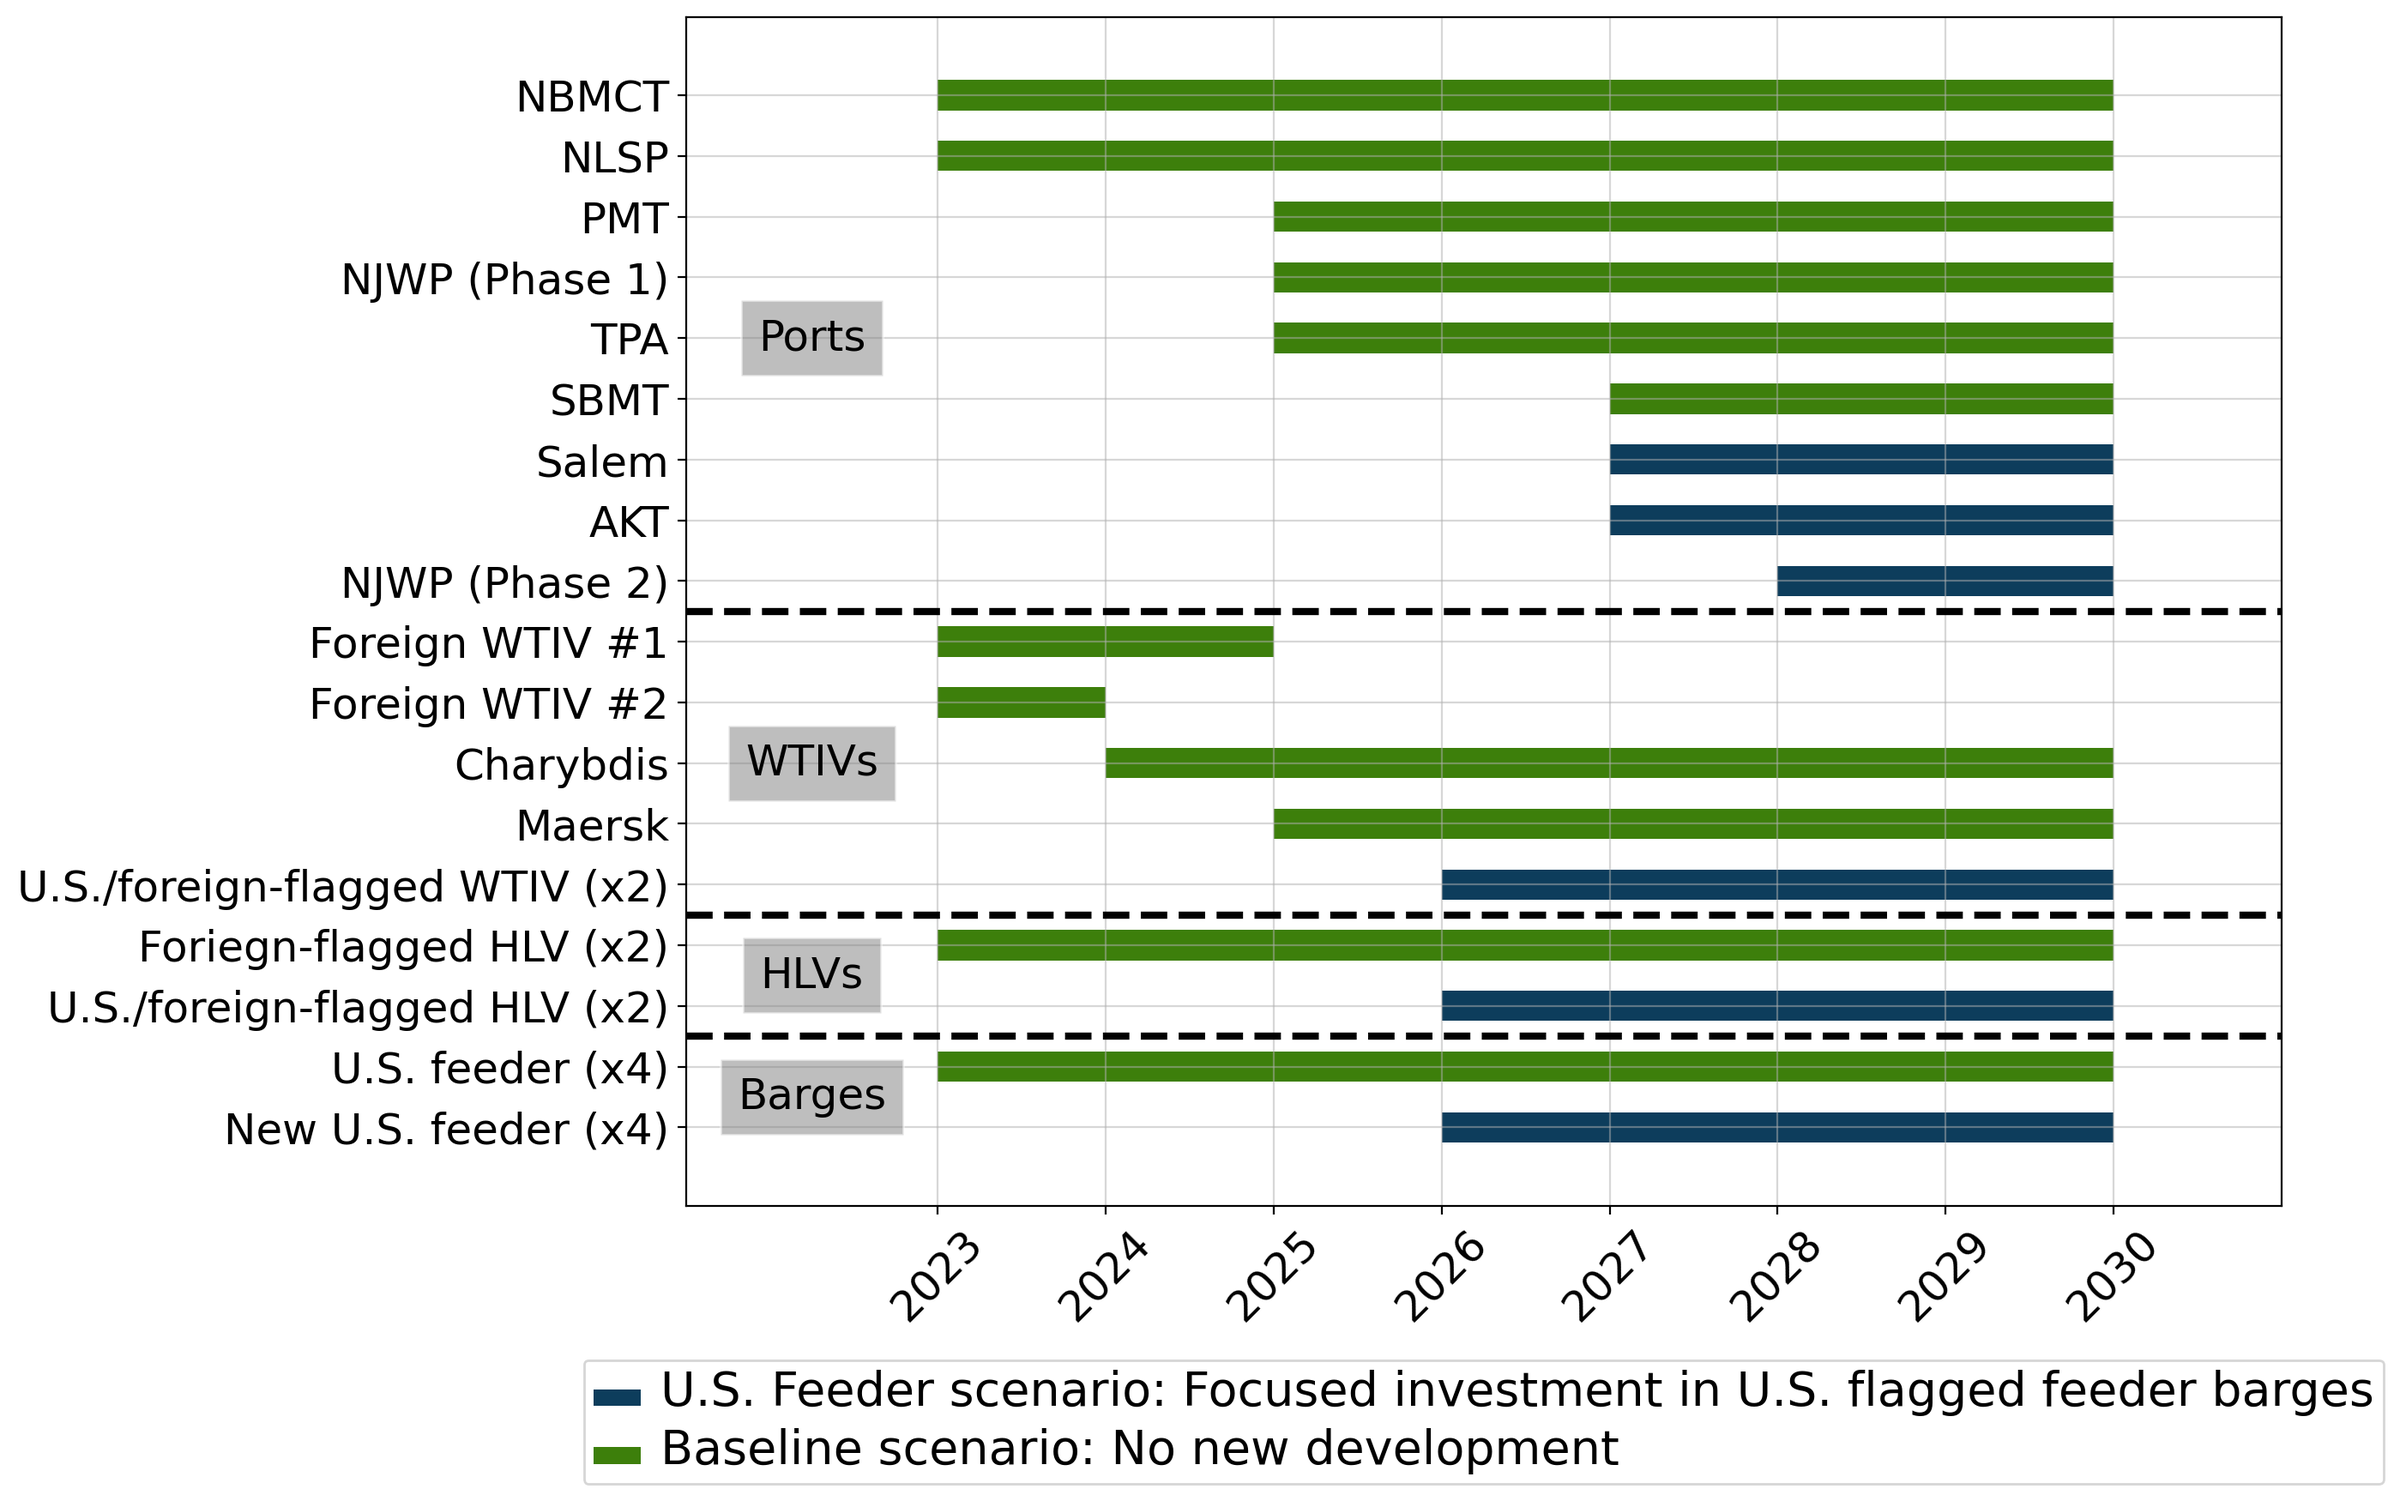
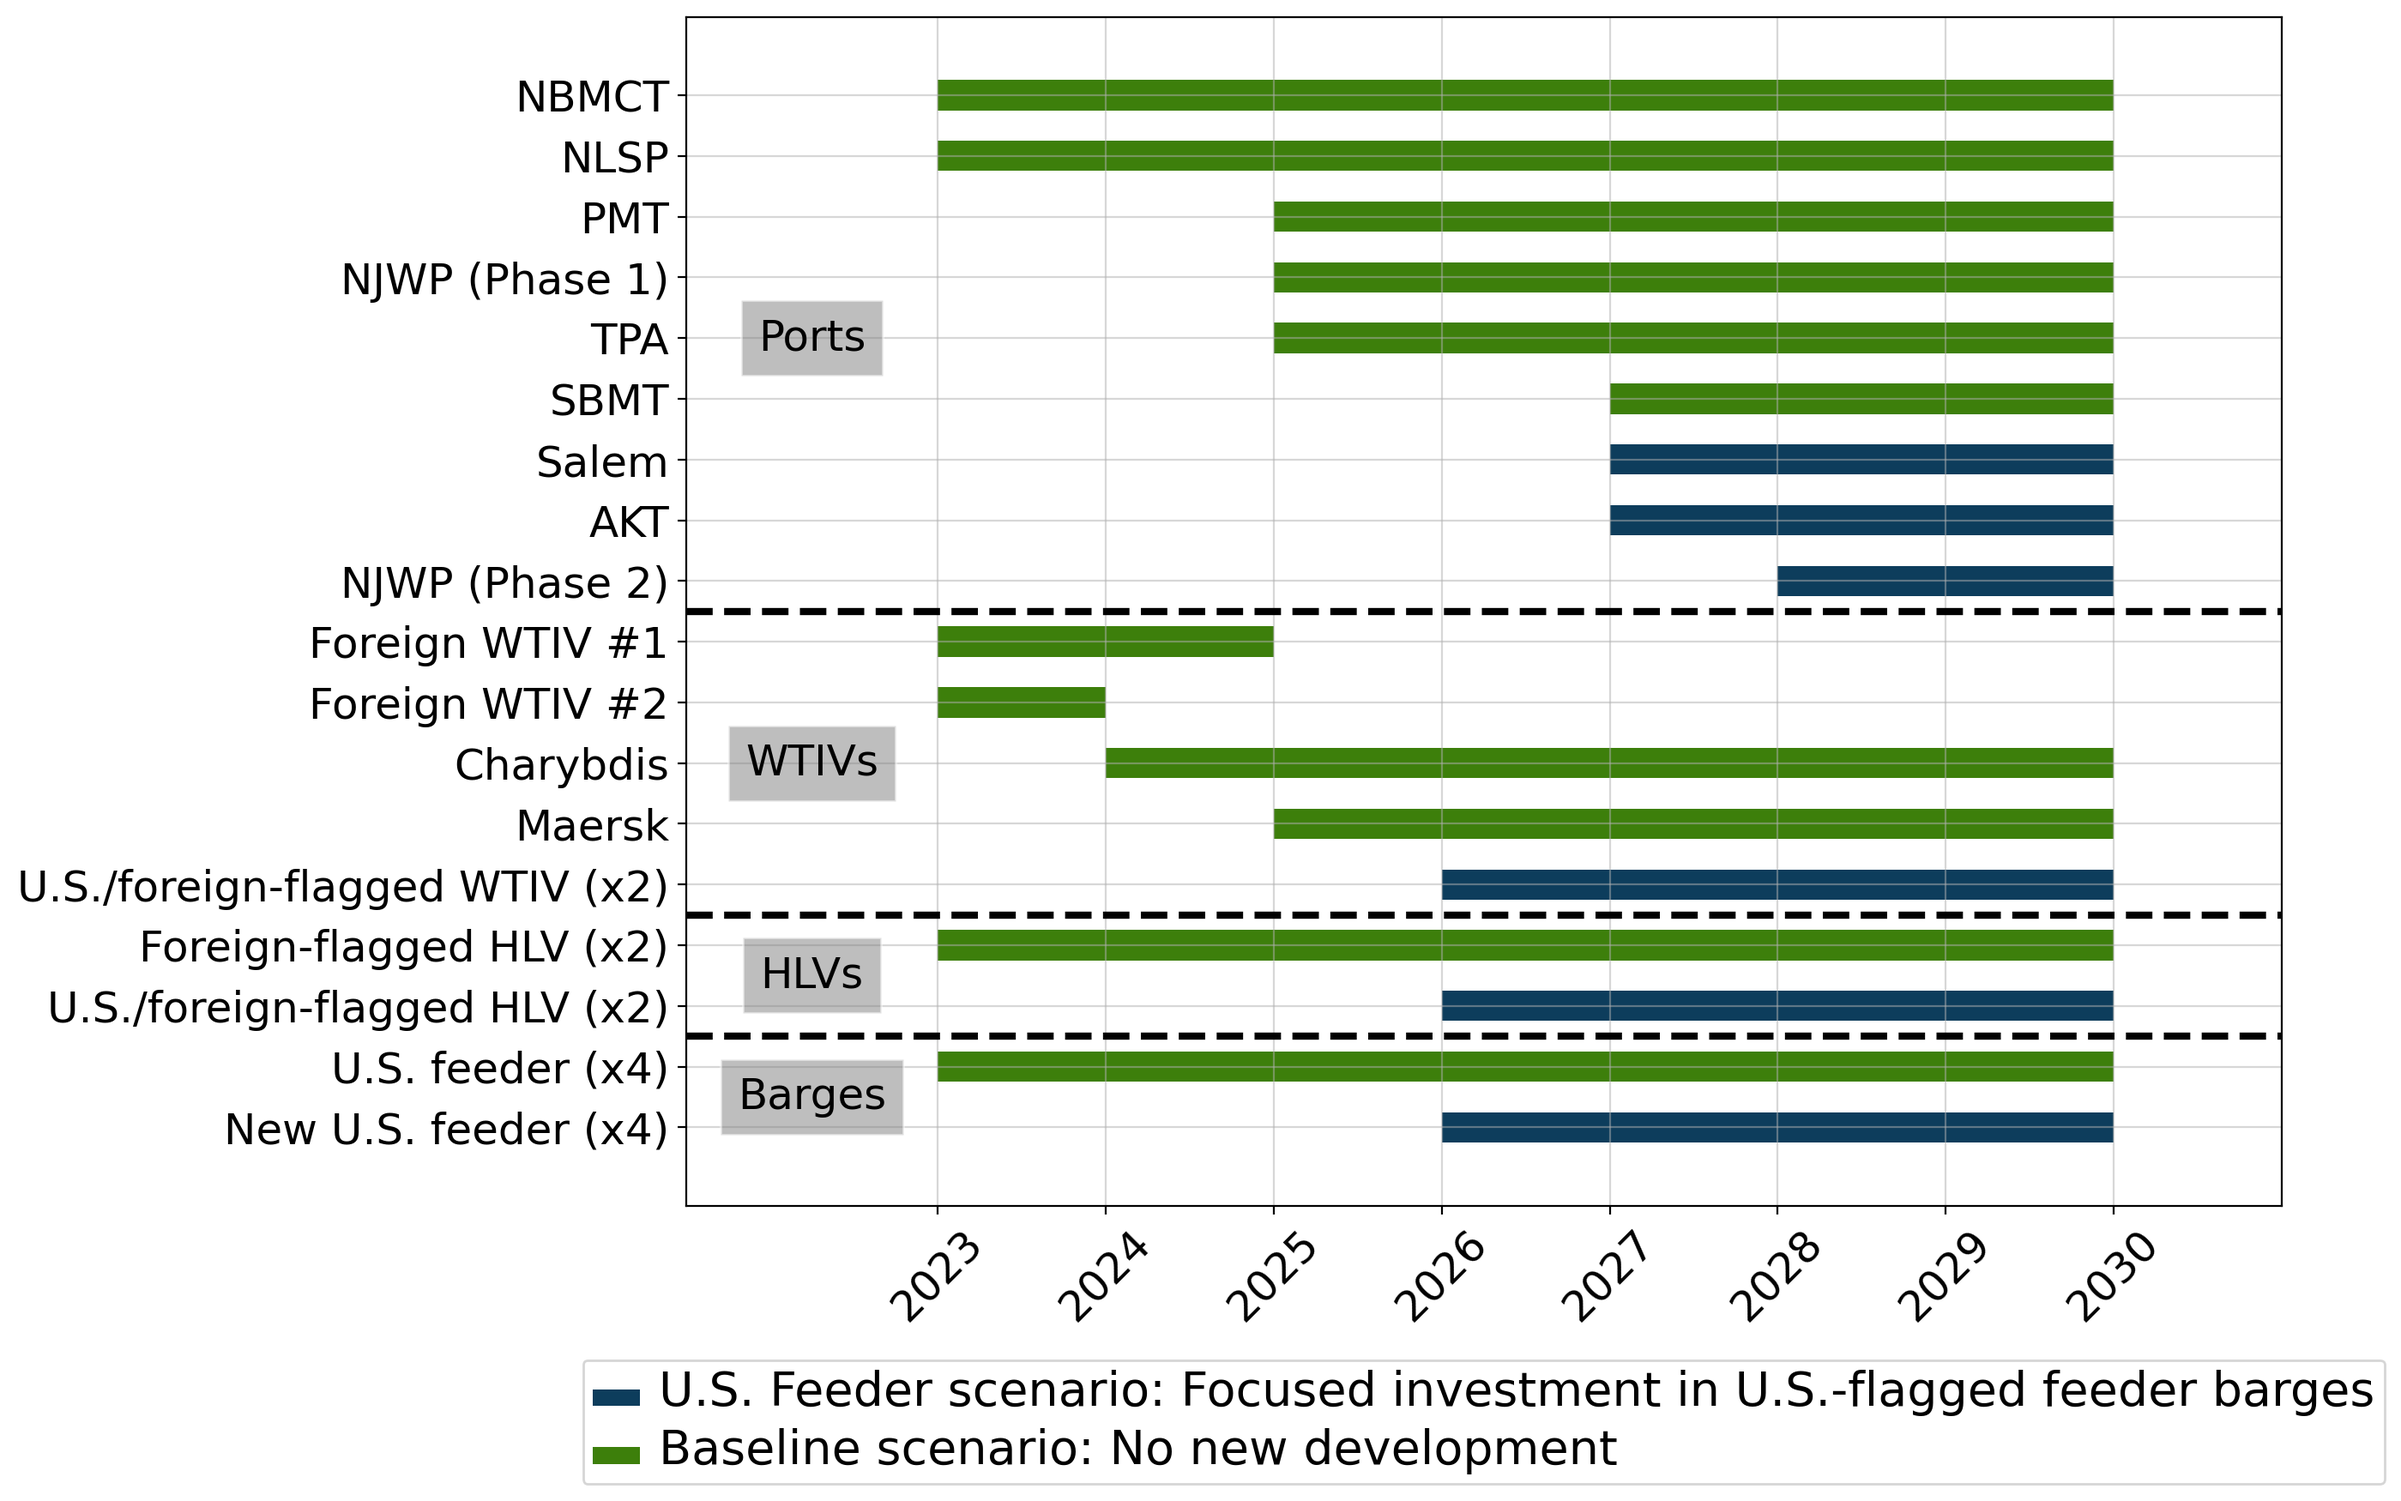
Updated vessel gantt charts

diff --git a/additional_plots.py b/additional_plots.py
@@ -189,7 +189,7 @@ if __name__ == '__main__':
                     },
                 },
                 'HLVs': {
-                    'Baseline': {'Foriegn-flagged HLV (x2)': {'start': 2023, 'end': 2030, 'invest': 0},},
+                    'Baseline': {'Foreign-flagged HLV (x2)': {'start': 2023, 'end': 2030, 'invest': 0},},
                     'Scenario': {'U.S./foreign-flagged HLV (x4)': {'start': 2026, 'end': 2030, 'invest': 1050},
                         },},
                 'Feeder barges':{
@@ -224,7 +224,7 @@ if __name__ == '__main__':
                         'U.S./foreign-flagged WTIV (x2)': {'start': 2026, 'end': 2030, 'invest':0},}
                     },
                 'HLVs': {
-                    'Baseline': {'Foriegn-flagged HLV (x2)': {'start': 2023, 'end': 2030, 'invest': 0},},
+                    'Baseline': {'Foreign-flagged HLV (x2)': {'start': 2023, 'end': 2030, 'invest': 0},},
                     'Scenario': {'U.S./foreign-flagged HLV (x2)': {'start': 2026, 'end': 2030, 'invest': 1050},
                         },
                     },
@@ -238,7 +238,7 @@ if __name__ == '__main__':
 
         scenario_label = {
             'US_wtivs': 'U.S. WTIV scenario: Focused investment in U.S.-flagged WTIVs',
-            'US_feeders': 'U.S. Feeder scenario: Focused investment in U.S. flagged feeder barges',
+            'US_feeders': 'U.S. Feeder scenario: Focused investment in U.S.-flagged feeder barges',
         }
 
         fname = 'results/port_vessel_scenario_gantt'
